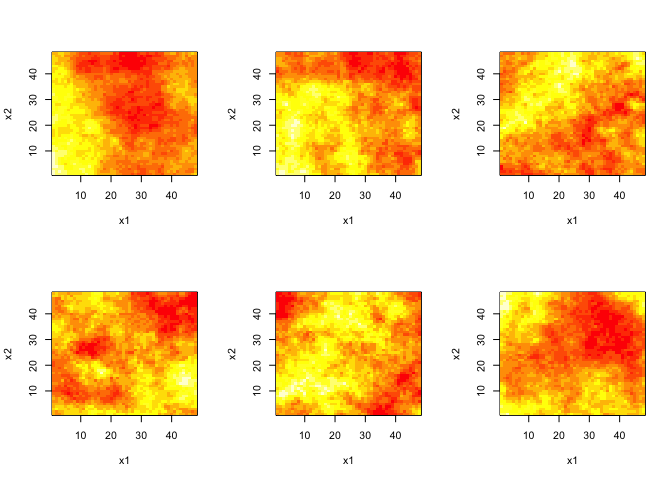
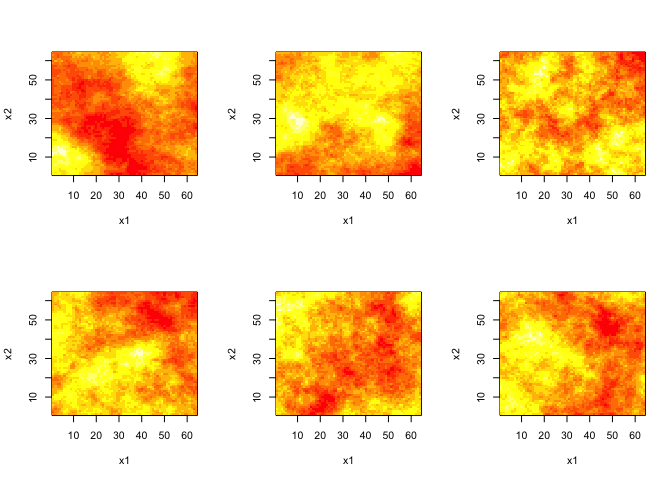
readme update

diff --git a/README.md b/README.md
@@ -15,16 +15,16 @@ Contents
 
 -   [Setting the probabilistic model](#Setting-the-probabilistic-model)
 -   [Simulating one realization](#Simulating-one-realisation)
--   [Plotting (and saving) several realizations](#plotting-(and-saving)-several-realizations)
--   [Setting the uncomplete lattice](#setting-th-uncomplete-lattice)
+-   [Plotting (and saving) several realizations](#Plotting-(and-saving)-several-realizations)
+-   [Setting the uncomplete lattice](#Setting-the-uncomplete-lattice)
 -   [Plotting data](#Plotting-data)
--   [Plotting the estimating function](#plotting-the-estimating-function)
--   [Estimating theta and the micro-ergodic parameter](#estimating-theta-and-the-micro-ergodic-parameter)
+-   [Computing (and plotting) the estimating function at log-equispaced ranges](#Computing-(and-plotting)-the-estimating-function-at-log-equispaced-ranges)
+-   [Estimating theta and the micro-ergodic parameter](#Estimating-theta-and-the-micro-ergodic-parameter)
 
 Setting the probabilistic model
 -------------------------------
 
-In this first version of the `CGEMEV` package, for simplicity, we restrict the spatial domain to be the unit square (0,1)X(0,1). For the example here, the simulations and the choice of observed sites are done using a grid 48x48 partitioning this domain.
+In this first version of the `CGEMEV` package, for simplicity, we restrict the spatial domain to be the unit square (0,1)X(0,1). For the example here, the simulations and the choice of observed sites are done using a grid 64x64 partitioning this domain.
 
 ``` r
 library(CGEMEV)
@@ -40,12 +40,12 @@ library(CGEMEV)
     ##     grid
 
 ``` r
-n1grid<-48
+n1grid<-64
 # gaussian matern creation
-gm <- gaussian.matern(grid.size=n1grid,smoothness=0.5,range=0.5,factor=2)
+gm <- gaussian.matern(grid.size=n1grid,smoothness=0.5,range=0.5,factor=3)
 ```
 
-NB: in the previous setting, ''factor=2'' specifies the required extension factor of the observation domain. Indeed for this example the choice ''factor=1'' would entail (when calling `simulate()`) the message "FFT of covariance has negative values" which means that generating a realization via the classical embedding method (which doubles each length of the considered rectangular domain) would not work.
+NB: in the previous setting, ''factor=3'' specifies the required extension factor of the observation domain. Indeed for this example the choice ''factor=1'' or ''factor=2'' would entail (when calling `simulate()`) the message "FFT of covariance has negative values" which means that generating a realization via the classical embedding method (which doubles each length of the considered rectangular domain) would not work.
 
 Simulating one realization
 --------------------------
@@ -83,10 +83,10 @@ simulate(gm)
 Plotting (and saving) several realizations
 ------------------------------------------
 
-We can plot (and save), the previous realization and, for example, 8 further realizations:
+We can plot (and save), the previous realization and, for example, 5 further realizations:
 
 ``` r
-fullLattice.nineZs<- array(NA,c(n1grid*n1grid,9))
+fullLattice.sixZs<- array(NA,c(n1grid*n1grid,6))
 set.panel(2,3)
 ```
 
@@ -94,27 +94,27 @@ set.panel(2,3)
 
 ``` r
 plot(gm)
-fullLattice.nineZs[,1]<-gm$look[1:gm$n1,1:gm$n1]
+fullLattice.sixZs[,1]<-gm$look[1:gm$n1,1:gm$n1]
 ut <- system.time(
-for (indexReplcitate in 2:9){
-  set.seed(321+indexReplcitate)
+for (indexReplcitate in 2:6){
+  set.seed(320+indexReplcitate)
   simulate(gm)
   plot(gm)
-  fullLattice.nineZs[,indexReplcitate]<-gm$look[1:gm$n1,1:gm$n1]
+  fullLattice.sixZs[,indexReplcitate]<-gm$look[1:gm$n1,1:gm$n1]
   # image(x1,x2,matrix(Ztrue, gm1over2range0p5$n1, gm1over2range0p5$n1),asp=1)}
 })
 ```
 
-![](README_files/figure-markdown_github/unnamed-chunk-3-1.png)![](README_files/figure-markdown_github/unnamed-chunk-3-2.png)
+![](README_files/figure-markdown_github/unnamed-chunk-3-1.png)
 
 The following timing is for a MacBookPro3,1 Intel Core 2 Duo 2.6GHh :
 
 ``` r
-ut   # for the simulation of 8 realisations :
+ut   # for the simulation of 5 realizations :
 ```
 
     ##    user  system elapsed 
-    ##   4.390   0.137   5.121
+    ##   9.552   0.285  10.672
 
 Setting the uncomplete lattice
 ------------------------------
@@ -128,68 +128,71 @@ ex1.md <- list(
     list(center=c(0.278412, 0.228412),radius=0.071365)
 )
 # gd=grid.domain
-print(system.time(ex1WithN1eq48And2missindDisks.gd <- grid.domain(ex1.md,n1grid)))
+print(system.time(ex1WithN1eq64And2missindDisks.gd <- grid.domain(ex1.md,n1grid)))
 ```
 
     ##    user  system elapsed 
-    ##   0.187   0.008   0.219
+    ##   0.246   0.015   0.306
 
 Plotting data
 -------------
 
 TODO
 
-Plotting the estimating function
---------------------------------
+Computing (and plotting) the estimating function at log-equispaced ranges
+-------------------------------------------------------------------------
+
+Choose a grid of candidates for the range parameter (more precisely, for the inverse-range parameter denoted theta) at which the estimating function is computed:
+
+``` r
+candidateThetas1DGrid <- 1/gm$range * 10**seq(-1.1,1.1,,15)
+```
 
 Consider the first one of the above realizations, and the naive variance estimator \(b_{\rm EV}\):
 
 ``` r
 # only observed outside the disks:
-#z <- gm$look[1:gm$n1,1:gm$n1][!ex1WithN1eq48And2missindDisks.gd$missing.sites]
+#z <- gm$look[1:gm$n1,1:gm$n1][!ex1WithN1eq64And2missindDisks.gd$missing.sites]
 indexReplcitate <- 1
-z <- fullLattice.nineZs[,indexReplcitate][!ex1WithN1eq48And2missindDisks.gd$missing.sites]
+z <- fullLattice.sixZs[,indexReplcitate][!ex1WithN1eq64And2missindDisks.gd$missing.sites]
 #
 (bEV  <- mean(z**2))
 ```
 
-    ## [1] 1.817604
+    ## [1] 2.908545
 
 For this realization, let us give the whole output of the function `fsai11Precond.GEevalOnThetaGrid()` :
 
 ``` r
-# choosing the inverse-range values (the theta's) at which the estimating funcion is computed:
-candidateThetas1DGrid <- 1/gm$range * 10**seq(-1.1,1.1,,15)
-
 (out <- fsai11Precond.GEevalOnThetaGrid(z,candidateThetas1DGrid,nu=gm$smoothness,                          
-grid.domain=ex1WithN1eq48And2missindDisks.gd,tolPGC=1e-03)
+grid.domain=ex1WithN1eq64And2missindDisks.gd,tolPGC=1e-03)
 )
 ```
 
     ## $values
     ##             [,1]
-    ##  [1,] 12.0933720
-    ##  [2,]  8.4223872
-    ##  [3,]  5.8659804
-    ##  [4,]  4.0858401
-    ##  [5,]  2.8463340
-    ##  [6,]  1.9834128
-    ##  [7,]  1.3828622
-    ##  [8,]  0.9652463
-    ##  [9,]  0.6753814
-    ## [10,]  0.4751469
-    ## [11,]  0.3384415
-    ## [12,]  0.2482045
-    ## [13,]  0.1942022
-    ## [14,]  0.1730623
-    ## [15,]  0.1892506
+    ##  [1,] 12.1298155
+    ##  [2,]  8.4473393
+    ##  [3,]  5.8829423
+    ##  [4,]  4.0972679
+    ##  [5,]  2.8538536
+    ##  [6,]  1.9881663
+    ##  [7,]  1.3856174
+    ##  [8,]  0.9665227
+    ##  [9,]  0.6753972
+    ## [10,]  0.4738874
+    ## [11,]  0.3357479
+    ## [12,]  0.2434768
+    ## [13,]  0.1865346
+    ## [14,]  0.1608699
+    ## [15,]  0.1702580
     ## 
     ## $niterForY
-    ##  [1] 17 17 16 15 15 14 14 14 13  9 16 19 26 40 66
+    ##  [1] 16 14 14 13 13 13 13 13 14 12 14 17 24 39 59
+
+Let us repeat this computation for the next five data sets obtained from the above realizations, and plot the results:
 
 ``` r
-#
-#
 set.panel(2,3)
 ```
 
@@ -201,27 +204,27 @@ set.panel(2,3)
     abline(h= bEV)
 }
 ut <- system.time(
-for (indexReplcitate in 2:9){
-  z <- fullLattice.nineZs[,indexReplcitate][!ex1WithN1eq48And2missindDisks.gd$missing.sites]
+for (indexReplcitate in 2:6){
+  z <- fullLattice.sixZs[,indexReplcitate][!ex1WithN1eq64And2missindDisks.gd$missing.sites]
   bEV  <- mean(z**2)
   out <- fsai11Precond.GEevalOnThetaGrid(z,candidateThetas1DGrid,
-        nu=gm$smoothness,grid.domain=ex1WithN1eq48And2missindDisks.gd,tolPGC=1e-03)
+        nu=gm$smoothness,grid.domain=ex1WithN1eq64And2missindDisks.gd,tolPGC=1e-03)
   plot(candidateThetas1DGrid, out$values, type="l", 
                  col=1, lty=2,log="x")
     abline(h= bEV)
 })
 ```
 
-![](README_files/figure-markdown_github/unnamed-chunk-7-1.png)![](README_files/figure-markdown_github/unnamed-chunk-7-2.png)
+![](README_files/figure-markdown_github/unnamed-chunk-9-1.png)
 
 Timing for a MacBookPro3,1 Intel Core 2 Duo 2.6GHh :
 
 ``` r
-ut   # for computing the estimating equation for 8 realisations :
+ut   # for computing the estimating equation for 5 realizations :
 ```
 
     ##    user  system elapsed 
-    ##  33.635   2.569  38.357
+    ##  22.582   3.510  30.399
 
 Estimating theta and the micro-ergodic parameter
 ------------------------------------------------
